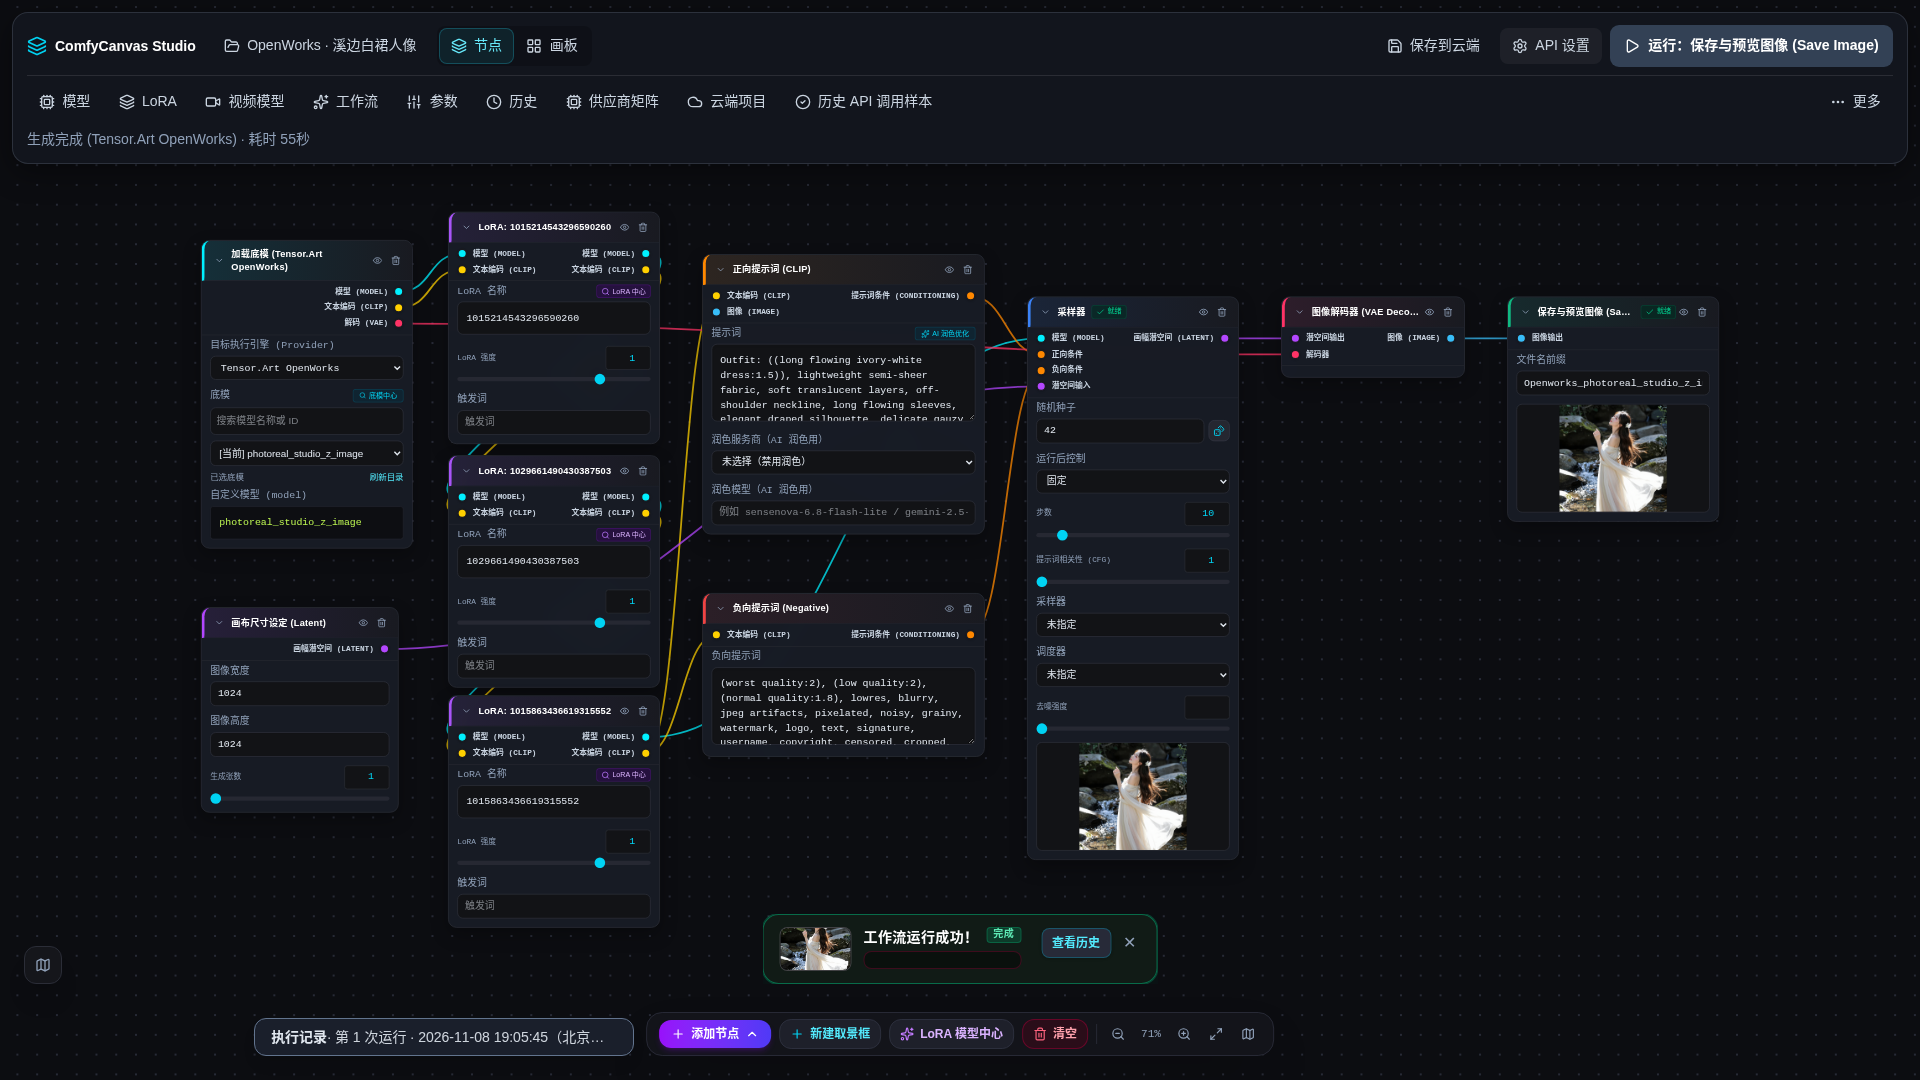
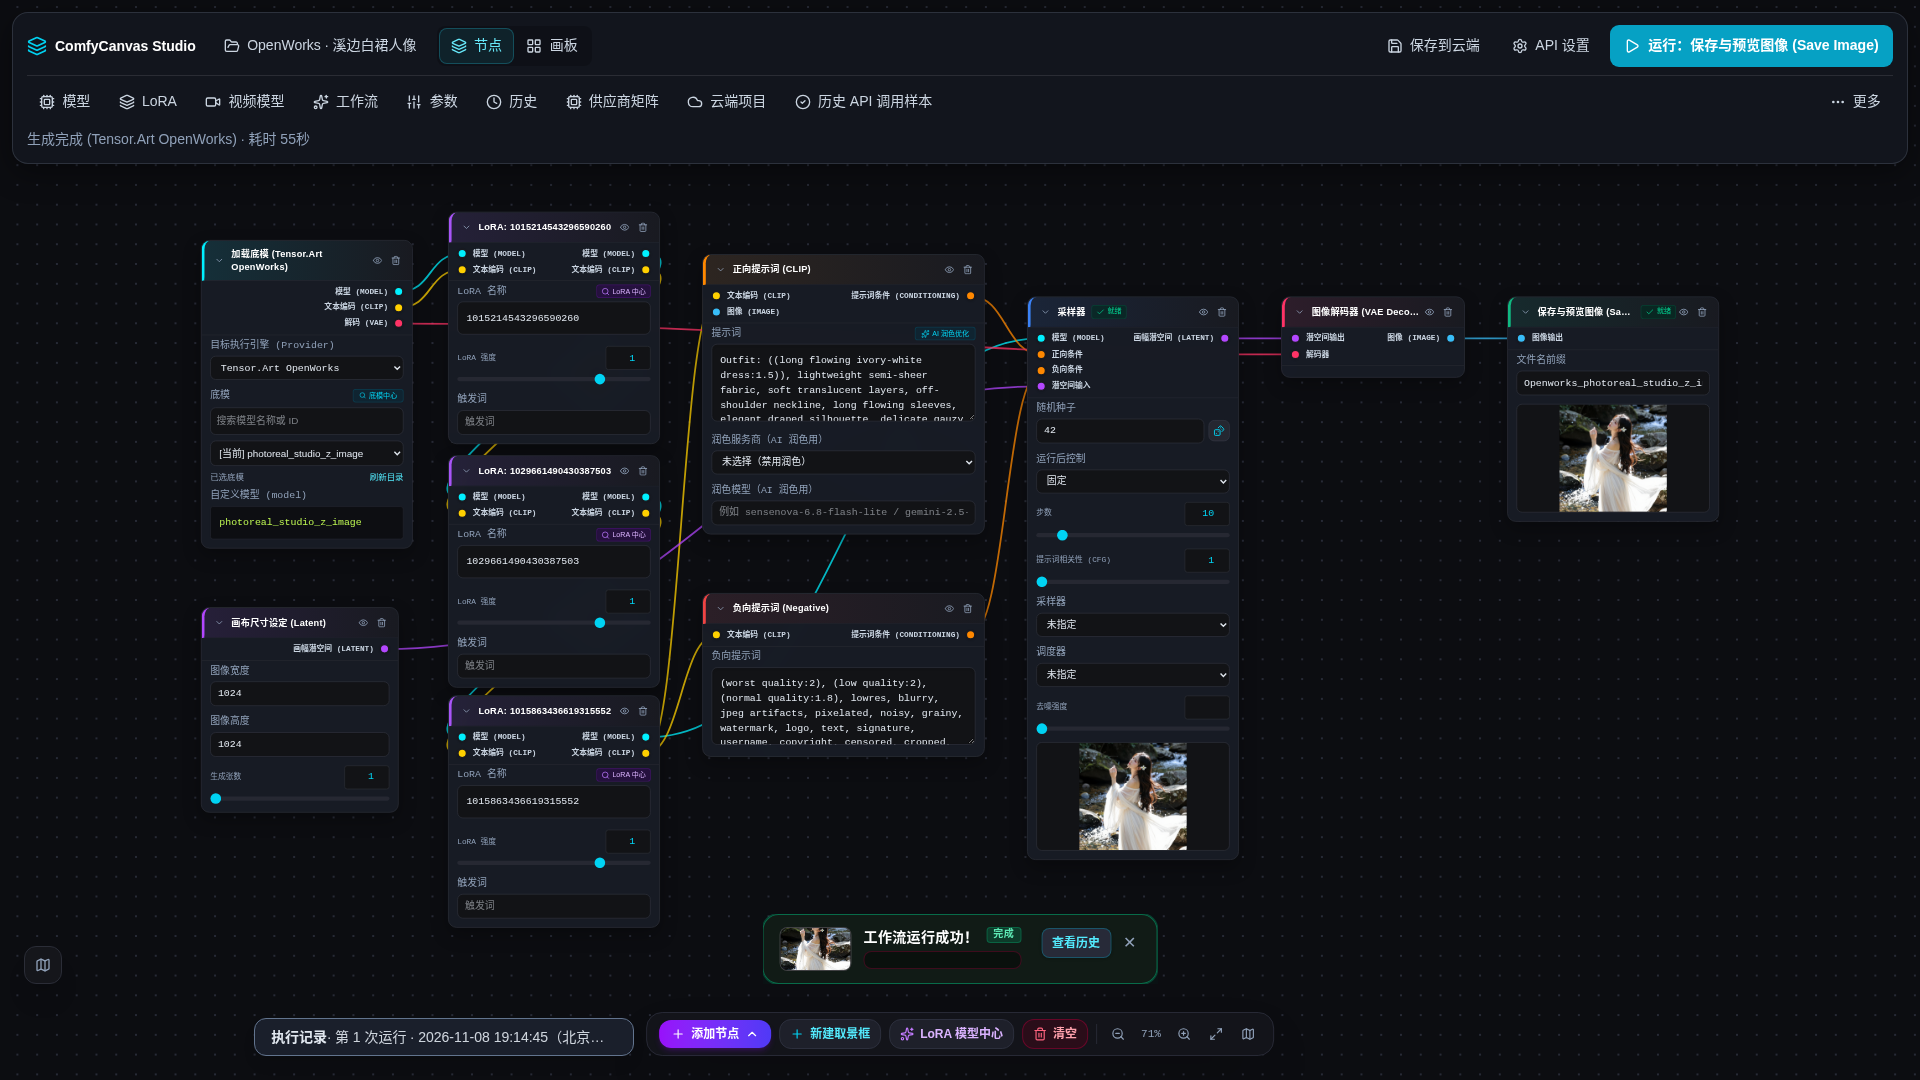
docs(M96): synchronize evidence chain to single clean run (task 1064569861478308016)

diff --git a/docs/evidence/real-product-2026-11-08/README.md b/docs/evidence/real-product-2026-11-08/README.md
@@ -2,10 +2,10 @@
 
 - **执行日期**: 2026-11-08
 - **测试环境**: Headless Chromium (Playwright Chromium, `--no-proxy-server`, 视口 `1920×1080`)
-- **本地服务**: `http://127.0.0.1:4596` (`PORT=4596 npx tsx server.ts`)
+- **本地服务**: `http://127.0.0.1:4597` (`PORT=4597 npx tsx server.ts`)
 - **执行分支**: `feat/realprod96-real-ui-generation-with-visib`
 - **执行 Agent**: `worker-m96-realprod-gemini`
[2 lines of base64/hex data omitted]
 
 ---
 
@@ -71,7 +71,7 @@
 | `venice` | Venice | 速率限额直查 | `200 OK` (未授权) | `"accessPermitted":false,"balances":{"USD":0,"DIEM":0,"BUNDLED_CREDITS":0}` | 额度为 0 |
 | `aimlapi` | AIMLAPI | 账单详情直查 | `200 OK` | `{"current_balance":0}` | 余额为 0 |
 | `novita` | Novita | 账单接口直查 | `200 OK` | `{"availableBalance":"0","cashBalance":"0"}` | 余额为 0 |
-| **`openworks`** | **Tensor.Art OpenWorks** | **UI 实际点击运行** | **`200 OK`** | **任务提交成功 (`1064565672811467028`)，轮询返回 `status: FINISH`，输出真实图像 URL** | **✅ 成功生成真实产物** |
+| **`openworks`** | **Tensor.Art OpenWorks** | **UI 实际点击运行** | **`200 OK`** | **任务提交成功 (`1064569861478308016`)，轮询 23 次返回 `status: FINISH`，输出真实图像 URL** | **✅ 成功生成真实产物** |
 
 ---
 
@@ -175,18 +175,18 @@
 - **提交接口上游原始响应体原文**:
   ```json
   {
-    "taskId": "1064565672811467028",
-    "pollUrl": "/api/schema-provider/openworks/tasks/1064565672811467028"
+    "taskId": "1064569861478308016",
+    "pollUrl": "/api/schema-provider/openworks/tasks/1064569861478308016"
   }
   ```
-- **轮询查询接口 HTTP 状态码**: `200 OK`
+- **轮询查询接口 HTTP 状态码**: `200 OK`（共轮询 23 次，状态依次由 `WAITING` -> `PROCESSING` -> `FINISH`）
 - **轮询查询接口上游原始响应体原文**:
   ```json
   {
     "status": "completed",
     "upstreamStatus": "FINISH",
     "outputs": [
-      "https://tensor-sf-sig.7022ae40757f8d53295a57619de9b364.r2.cloudflarestorage.com/workspace/generation/1048723019146487792/2026-11-08/4b75921d-f2b1-428e-8de4-5cced75964c3.png?X-Amz-Algorithm=AWS4-HMAC-SHA256&X-Amz-Credential=0bef8a003dc93fc4d7030c9da79271ff%2F20261108%2Fauto%2Fs3%2Faws4_request&X-Amz-Date=20261108T105916Z&X-Amz-Expires=3600&X-Amz-SignedHeaders=host&x-id=GetObject&X-Amz-Signature=5f4b49b6f5202e2b49a8434de4f573fc150308f1e9fe3cffe7c45d4461a071e9"
+      "https://tensor-sf-sig.7022ae40757f8d53295a57619de9b364.r2.cloudflarestorage.com/workspace/generation/1048723019146487792/2026-11-08/bdf77680-c981-4203-95e5-b54cfe767087.png?X-Amz-Algorithm=AWS4-HMAC-SHA256&X-Amz-Credential=0bef8a003dc93fc4d7030c9da79271ff%2F20261108%2Fauto%2Fs3%2Faws4_request&X-Amz-Date=20261108T111540Z&X-Amz-Expires=3600&X-Amz-SignedHeaders=host&x-id=GetObject&X-Amz-Signature=4bb64aa7e584ec66f3922e3e57143491ba6368d374e2d3bbfe2c78652c7be0fe"
     ],
     "mediaType": "image",
     "rawResponse": {
@@ -195,14 +195,14 @@
       "data": {
         "tasks": [
           {
-            "id": "1064565672811467028",
+            "id": "1064569861478308016",
             "userId": "1048723019146487792",
             "status": "FINISH",
             "toolName": "photoreal_studio_z_image",
             "outputs": [
               {
                 "type": "STRING",
-                "value": "https://tensor-sf-sig.7022ae40757f8d53295a57619de9b364.r2.cloudflarestorage.com/workspace/generation/1048723019146487792/2026-11-08/4b75921d-f2b1-428e-8de4-5cced75964c3.png?X-Amz-Algorithm=AWS4-HMAC-SHA256&X-Amz-Credential=0bef8a003dc93fc4d7030c9da79271ff%2F20261108%2Fauto%2Fs3%2Faws4_request&X-Amz-Date=20261108T105916Z&X-Amz-Expires=3600&X-Amz-SignedHeaders=host&x-id=GetObject&X-Amz-Signature=5f4b49b6f5202e2b49a8434de4f573fc150308f1e9fe3cffe7c45d4461a071e9"
+                "value": "https://tensor-sf-sig.7022ae40757f8d53295a57619de9b364.r2.cloudflarestorage.com/workspace/generation/1048723019146487792/2026-11-08/bdf77680-c981-4203-95e5-b54cfe767087.png?X-Amz-Algorithm=AWS4-HMAC-SHA256&X-Amz-Credential=0bef8a003dc93fc4d7030c9da79271ff%2F20261108%2Fauto%2Fs3%2Faws4_request&X-Amz-Date=20261108T111540Z&X-Amz-Expires=3600&X-Amz-SignedHeaders=host&x-id=GetObject&X-Amz-Signature=4bb64aa7e584ec66f3922e3e57143491ba6368d374e2d3bbfe2c78652c7be0fe"
               }
             ]
           }
@@ -217,8 +217,8 @@
   2. 底部浮动 Toast: 显式呈现 `工作流运行成功！`，带缩略图与「查看历史」按钮；
   3. KSampler 采样器节点: 内部渲染完整可见的高清生成图像产物；
   4. SaveImage 保存图像节点: 内部同步渲染完整可见的高清生成图像产物；
-  5. ExecutionLog 抽屉: 完整记录该次出站 trace，可展开查看 `actualRequest` 与上游真实响应；
-  6. 历史记录 (HistoryModal): 完整展示该次出图卡片、模型、LoRA、种子、尺寸与生成的真实图像缩略图。
+  5. ExecutionLog 抽屉: 完整记录该次出站 trace，展开可见 `actualRequest` 与上游真实响应；
+  6. 历史记录 (HistoryModal): 完整展示该次出图卡片、模型、LoRA、种子、尺寸与生成的真实图像缩略图（ID: `hist_1794136541248_ixzdi`，共 1 张出图）。
 
 ---
 
@@ -227,14 +227,16 @@
 本次 UI 点击运行生成的真实图像产物已完整持久化于 `docs/evidence/real-product-2026-11-08/` 目录下：
 
 ### 1. 真实生成图像产物 (Real Image Artifact)
-- **文件物理路径**: `docs/evidence/real-product-2026-11-08/artifact-openworks-4b75921d.png`
+- **文件物理路径**: `docs/evidence/real-product-2026-11-08/artifact-openworks-bdf77680.png`
 - **图像格式与规格**: PNG 格式，`1024 × 1024` 像素，8-bit RGB
-- **文件物理大小**: `1,370,908` 字节 (`1.31 MB`)
+- **文件物理大小**: `1,392,518` 字节 (`1.33 MB`)
 - **SHA256 哈希**:
   ```
[2 lines of base64/hex data omitted]
   ```
-- **上游原始存储地址**: `https://tensor-sf-sig.7022ae40757f8d53295a57619de9b364.r2.cloudflarestorage.com/workspace/generation/1048723019146487792/2026-11-08/4b75921d-f2b1-428e-8de4-5cced75964c3.png`
+- **上游原始存储地址**: `https://tensor-sf-sig.7022ae40757f8d53295a57619de9b364.r2.cloudflarestorage.com/workspace/generation/1048723019146487792/2026-11-08/bdf77680-c981-4203-95e5-b54cfe767087.png`
[1 lines of base64/hex data omitted]
+- **历史记录持久化条目**: `data/history.json` 中 `id: hist_1794136541248_ixzdi`，时间戳 `1794136541248`
 
 ### 2. UI 运行与截图证据清单 (Screenshot Evidence)
 
@@ -245,7 +247,7 @@
[11 lines of base64/hex data omitted]
